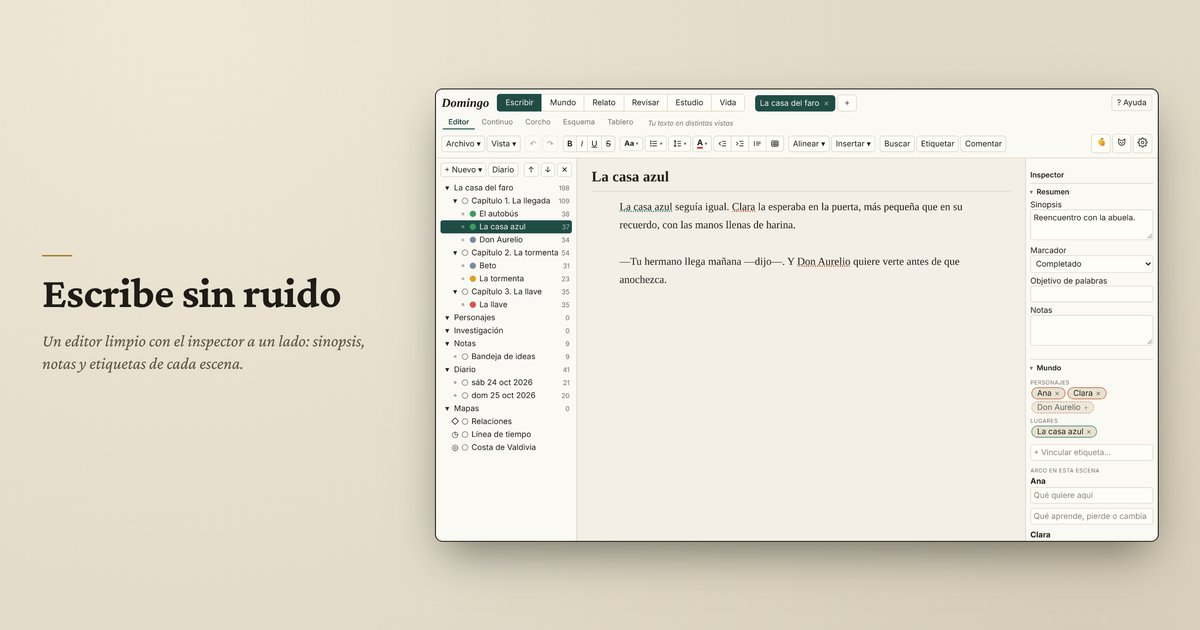
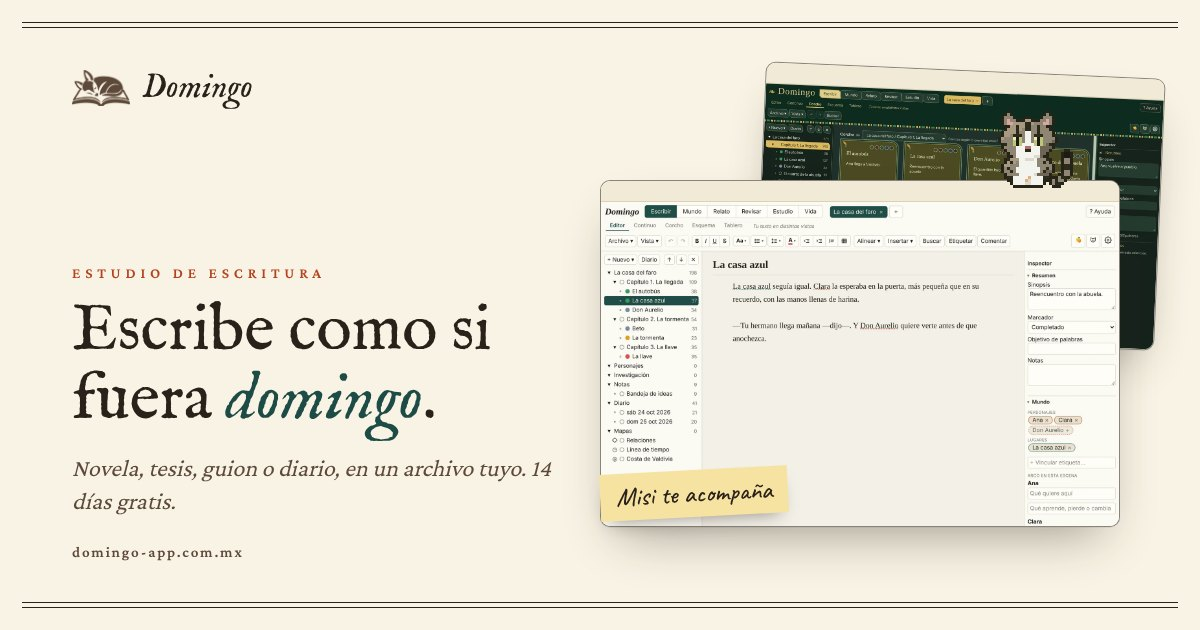
Talleres en Inicio y Funciones, preventa extendida al 30 de noviembre, imagen para compartir por pestaña, sprites completos en el índice
Claude-Session: https://claude.ai/code/session_01SU9RbtriRXr5rLhsn7hhpR

diff --git a/funciones/index.html b/funciones/index.html
@@ -17,7 +17,9 @@
 <meta property="og:title" content="Funciones · Domingo">
 <meta property="og:description" content="Escribir, Mundo, Relato, Revisar, Estudio y Vida: todas las herramientas de Domingo con capturas de la app.">
 <meta property="og:url" content="https://domingo-app.com.mx/funciones/">
-<meta property="og:image" content="https://domingo-app.com.mx/img/og.jpg">
+<meta property="og:image" content="https://domingo-app.com.mx/img/og/funciones.jpg">
+<meta property="og:image:width" content="1200">
+<meta property="og:image:height" content="630">
 <meta name="twitter:card" content="summary_large_image">
 <link rel="preconnect" href="https://fonts.googleapis.com">
 <link rel="preconnect" href="https://fonts.gstatic.com" crossorigin>
@@ -40,7 +42,7 @@
   <div class="cap"><span class="versal">Funciones</span><span class="num">Capítulo i</span></div>
   <h1>Seis estudios en un solo archivo</h1>
   <p class="entrada">Domingo reúne lo que suele estar regado en cuadernos, carpetas y programas distintos. Lo sencillo aparece primero; lo avanzado, cuando lo necesitas.</p>
-</div></section><nav class="sub" aria-label="Áreas"><div class="envoltura"><a href="#escribir">Escribir</a><a href="#mundo">Mundo</a><a href="#relato">Relato</a><a href="#revisar">Revisar</a><a href="#estudio">Estudio</a><a href="#vida">Vida</a></div></nav><section class="area" id="escribir"><div class="envoltura">
+</div></section><nav class="sub" aria-label="Áreas"><div class="envoltura"><a href="#escribir">Escribir</a><a href="#mundo">Mundo</a><a href="#relato">Relato</a><a href="#revisar">Revisar</a><a href="#estudio">Estudio</a><a href="#vida">Vida</a><a href="#talleres">Talleres</a></div></nav><section class="area" id="escribir"><div class="envoltura">
   <div class="cab"><div><span class="n">01</span><span class="versal">Escribir</span><h2 style="margin-top:var(--s2)">Un editor tranquilo, y tu obra a la vista</h2></div>
   <div><p>Escribe con formato o en Markdown. Ordena capítulos y escenas como fichas, en esquema o en tablero, y abre dos textos lado a lado cuando necesitas comparar.</p><div class="herr"><span>Editor con formato y Markdown</span><span>Corcho</span><span>Esquema</span><span>Tablero</span><span>Pantalla dividida</span><span>Máquina de escribir</span><span>Metas de palabras</span><span>Captura rápida</span><span>Talleres guiados</span></div></div></div>
   <div class="mosaico"><figure class="principal aparece"><div class="ventana "><div class="franja"><i></i><i></i><i></i></div><img src="../img/escribir.webp" width="1600" height="1000" alt="Editor. El texto al centro, la estructura a la izquierda y el inspector de la escena a la derecha." loading="lazy"></div><figcaption><b>Editor.</b> El texto al centro, la estructura a la izquierda y el inspector de la escena a la derecha.</figcaption></figure><div class="lado"><figure class="aparece"><div class="ventana "><div class="franja"><i></i><i></i><i></i></div><img src="../img/app/tablero.webp" width="1440" height="900" alt="Tablero. Escenas por estado, de pendiente a completado. Estilo Boceto." loading="lazy"></div><figcaption><b>Tablero.</b> Escenas por estado, de pendiente a completado. Estilo Boceto.</figcaption></figure><figure class="aparece"><div class="ventana "><div class="franja"><i></i><i></i><i></i></div><img src="../img/app/dividida.webp" width="1440" height="900" alt="Pantalla dividida. Dos textos lado a lado. Estilo Aurora." loading="lazy"></div><figcaption><b>Pantalla dividida.</b> Dos textos lado a lado. Estilo Aurora.</figcaption></figure></div></div>
@@ -64,9 +66,25 @@
   <div class="cab"><div><span class="n">06</span><span class="versal">Vida</span><h2 style="margin-top:var(--s2)">Lo vivido también se escribe</h2></div>
   <div><p>Un diario con fecha, ánimo y plantillas de reflexión. Una línea de vida, planes, hábitos e inspiración. Y lo que vives puede volverse historia.</p><div class="herr"><span>Diario con contraseña</span><span>Plantillas</span><span>Línea de vida</span><span>Planes</span><span>Hábito de escritura</span><span>Frases e inspiración</span><span>Revisión semanal</span></div></div></div>
   <div class="mosaico inv"><figure class="principal aparece"><div class="ventana "><div class="franja"><i></i><i></i><i></i></div><img src="../img/app/habito.webp" width="1440" height="900" alt="Hábito. Los días en que llegaste a tu meta, mes a mes y en todo el año. Estilo Japandi." loading="lazy"></div><figcaption><b>Hábito.</b> Los días en que llegaste a tu meta, mes a mes y en todo el año. Estilo Japandi.</figcaption></figure><div class="lado"><figure class="aparece"><div class="ventana "><div class="franja"><i></i><i></i><i></i></div><img src="../img/app/linea-vida.webp" width="1440" height="900" alt="Línea de vida. Hitos, planes y metas junto a tu diario. Estilo Acanthus." loading="lazy"></div><figcaption><b>Línea de vida.</b> Hitos, planes y metas junto a tu diario. Estilo Acanthus.</figcaption></figure><figure class="aparece"><div class="ventana "><div class="franja"><i></i><i></i><i></i></div><img src="../img/app/semana.webp" width="1440" height="900" alt="Revisión semanal. Lo que escribiste, tu ánimo y lo que sigue." loading="lazy"></div><figcaption><b>Revisión semanal.</b> Lo que escribiste, tu ánimo y lo que sigue.</figcaption></figure></div></div>
-</div></section><section class="banda"><div class="envoltura centro cabeza" style="margin-bottom:0">
-  <span class="versal">¿Por dónde empiezo?</span><h2>Aprende haciendo</h2><hr class="filete">
-  <p>Domingo trae obras de muestra con todo ya usado, como Don Quijote y La vida es sueño, y talleres guiados paso a paso. Pruébalas sin riesgo para tus manuscritos.</p>
+</div></section><section class="talleres" id="talleres"><div class="envoltura">
+  <div class="cab area" style="padding:0;border:0;background:none"><div class="cab" style="margin-bottom:var(--s5)"><div><span class="n" style="color:rgba(248,243,228,.25)">07</span><span class="versal">Talleres</span><h2 style="margin-top:var(--s2)">Tu primer cuento, en cinco sesiones</h2></div>
+  <div><p>Si vas empezando, no tienes que adivinar por dónde. El Taller de escritura crea un manuscrito tuyo y te lleva de la mano, de una vivencia propia al cuento terminado. No enseña a usar la app: te enseña a escribir, y la app aparece cuando la necesitas.</p></div></div></div>
+  <div class="taller-dos">
+    <div><ol class="sesiones"><li><div><b>Una idea que sale de tu vida</b><span>Anotas algo que viviste, lo conviertes en una pregunta «¿Y si…?» y armas el esqueleto de tu cuento.</span></div></li><li><div><b>Tus personajes y su mundo</b><span>Das vida a tu protagonista, a quien lo inspiró y al lugar donde pasa todo.</span></div></li><li><div><b>Investiga e inspírate</b><span>Reúnes imágenes, frases y datos que alimentan tu historia, y ubicas lo importante en el tiempo.</span></div></li><li><div><b>Escribe tu historia</b><span>Escribes las escenas una a una, sin corregir, con el material que ya reuniste.</span></div></li><li><div><b>Revisa y termina</b><span>Lees tu cuento completo, corriges lo que Domingo señala, guardas una versión y lo exportas.</span></div></li></ol><p class="chico" style="color:#cfd8cc;margin-top:var(--s3)">Cada sesión dura unos 15 minutos. Puedes cerrar el taller cuando quieras y retomarlo desde «Continuar», en el paso donde lo dejaste.</p></div>
+    <div class="figs">
+      <figure class="aparece"><div class="ventana "><div class="franja"><i></i><i></i><i></i></div><img src="../img/app/taller-paso.webp" width="1440" height="900" alt="Taller de escritura, sesión 1, paso 4: la tarjeta guía y la sinopsis con el «¿Y si…?» de la historia." loading="lazy"></div><figcaption><b>Cambia algo y pregunta «¿Y si…?».</b> Una vivencia real se vuelve idea de cuento.</figcaption></figure>
+      <figure class="aparece"><div class="ventana "><div class="franja"><i></i><i></i><i></i></div><img src="../img/app/taller-menu.webp" width="1440" height="900" alt="Menú del Taller de Domingo con sus tres grupos: Aprender Domingo, Taller avanzado y Taller de escritura." loading="lazy"></div><figcaption><b>El menú del taller.</b> Se abre desde Ayuda, con «Hacer el taller guiado».</figcaption></figure>
+    </div>
+  </div>
+  <div class="tres-t">
+    <div><span class="n">8</span><h3>Aprender Domingo</h3><p>Partes cortas de unos 5 minutos: las zonas de la pantalla, tu primer escrito, mapas, relato, revisión, estudio y vida.</p></div>
+    <div><span class="n">7</span><h3>Taller avanzado</h3><p>Una herramienta compleja de principio a fin: mapas, ramas y tramas, lenguas inventadas, escritura académica, arcos y genealogía.</p></div>
+    <div><span class="n">5</span><h3>Taller de escritura</h3><p>Cinco sesiones para escribir tu propia historia corta. Tu manuscrito se conserva al terminar.</p></div>
+  </div>
+</div></section>
+<section class="banda"><div class="envoltura centro cabeza" style="margin-bottom:0">
+  <span class="versal">Obras de muestra</span><h2>Aprende con los clásicos</h2><hr class="filete">
+  <p>Domingo trae obras de muestra con todas las herramientas ya usadas, como Don Quijote y La vida es sueño. Ábrelas para explorar sin riesgo para tus manuscritos.</p>
   <div class="acciones" style="justify-content:center"><a class="boton primario solo-prueba" href="../precio/#descargas">Descargar gratis · 14 días</a><a class="boton secundario" href="../estilos/">Ver los estilos</a></div>
 </div><div class="envoltura" style="max-width:928px;margin-top:var(--s6)"><figure class="aparece"><div class="ventana "><div class="franja"><i></i><i></i><i></i></div><img src="../img/quijote.webp" width="1600" height="956" alt="Don Quijote abierto en Domingo con el estilo Bohemio, una de las obras de muestra." loading="lazy"></div><figcaption><b>Don Quijote</b>, una de las obras de muestra, en estilo Bohemio.</figcaption></figure></div></section>
 </main>

diff --git a/preguntas/index.html b/preguntas/index.html
@@ -17,7 +17,9 @@
 <meta property="og:title" content="Preguntas · Domingo">
 <meta property="og:description" content="Preguntas frecuentes sobre Domingo: prueba de 14 días, licencia, privacidad, instalación en Mac y Windows, y contacto.">
 <meta property="og:url" content="https://domingo-app.com.mx/preguntas/">
-<meta property="og:image" content="https://domingo-app.com.mx/img/og.jpg">
+<meta property="og:image" content="https://domingo-app.com.mx/img/og/preguntas.jpg">
+<meta property="og:image:width" content="1200">
+<meta property="og:image:height" content="630">
 <meta name="twitter:card" content="summary_large_image">
 <link rel="preconnect" href="https://fonts.googleapis.com">
 <link rel="preconnect" href="https://fonts.gstatic.com" crossorigin>
@@ -40,7 +42,7 @@
   <div class="cap"><span class="versal">Preguntas</span><span class="num">Capítulo vi</span></div>
   <h1>Lo que suelen preguntar</h1>
   <p class="entrada">Y si tu duda no está aquí, escríbeme. Respondo yo, no un sistema.</p>
-</div></section><section class="banda" style="padding-top:0"><div class="envoltura"><div class="grupo-p"><h2>Empezar</h2><div class="preguntas"><details class='solo-prueba'><summary>¿Puedo probar Domingo antes de comprarlo?</summary><p>Sí. Descarga la app y úsala 14 días con todas las herramientas, sin cuenta ni tarjeta. La prueba empieza sola la primera vez que abres Domingo.</p></details><details class='solo-prueba'><summary>¿Qué pasa cuando terminan los 14 días?</summary><p>Tus manuscritos siguen ahí: puedes abrirlos, leerlos y exportarlos cuando quieras. Para volver a escribir, compra tu licencia y pega la clave en la app. Todo lo que escribiste durante la prueba se queda contigo.</p></details><details><summary>¿Qué es Domingo Lite?</summary><p>Una versión gratuita de Domingo que se usa en el navegador, sin instalar nada. Tiene el editor, el corcho, el mapa de relaciones, Misi y los mangos, con un tope de 5,000 palabras. Lo que escribas lo guardas como archivo .mingo y lo abres después en la app completa. <a href="../probar/">Abrir Domingo Lite</a>.</p></details><details><summary>¿Hay versión para Linux, iPad o teléfono?</summary><p>Por ahora Domingo es para macOS y Windows. Si te interesa otra plataforma, escríbeme: eso ayuda a decidir qué sigue.</p></details></div></div><div class="grupo-p"><h2>Tus textos</h2><div class="preguntas"><details><summary>¿Necesito internet para usar Domingo?</summary><p>No. Domingo funciona sin conexión. Solo necesitas internet para descargarla y activar tu licencia.</p></details><details><summary>¿Dónde se guardan mis textos?</summary><p>En tu computadora, en archivos .mingo que tú eliges dónde guardar. No hay nube ni cuenta. Domingo hace copias de seguridad automáticas al guardar y puedes recuperarlas por fecha.</p></details></div></div><div class="grupo-p"><h2>Licencia y pago</h2><div class="preguntas"><details><summary>¿Es una suscripción?</summary><p>No. Pagas una vez y la licencia es tuya, sin fecha de caducidad.</p></details><details><summary>¿En cuántos equipos puedo usarla?</summary><p>Tu licencia sirve para dos equipos, por ejemplo tu computadora de escritorio y tu laptop, aunque uno sea Mac y otro Windows. Para cambiar de computadora, en la anterior ve a Configuración › Licencia › Liberar este dispositivo.</p></details><details><summary>¿Cómo funcionó la preventa?</summary><p><span id="faq-preventa"></span></p></details><details><summary>¿Y si no me gusta?</summary><p>Tienes 14 días para pedir tu reembolso, sin preguntas. Escribe a contacto@domingo-app.com.mx.</p></details></div></div><div class="grupo-p"><h2>Instalación</h2><div class="preguntas"><details><summary>Mi Mac dice que no puede comprobar la app. ¿Qué hago?</summary><p>Domingo todavía no tiene firma de Apple, así que la primera vez macOS la detiene. Abre Ajustes del Sistema, entra a Privacidad y seguridad, baja hasta la sección Seguridad y pulsa «Abrir igualmente». Solo hay que hacerlo una vez. Los pasos con imágenes están en la <a href="../instalar/#instala">guía de instalación</a>.</p></details><details><summary>Windows muestra un aviso azul al instalar. ¿Es normal?</summary><p>Sí. Es el filtro SmartScreen, que aparece con programas nuevos que aún no tienen firma. Pulsa «Más información» y después «Ejecutar de todas formas». Los pasos con imágenes están en la <a href="../instalar/#instala">guía de instalación</a>.</p></details></div></div></div></section><section class="banda verde" id="contacto"><div class="envoltura contacto">
+</div></section><section class="banda" style="padding-top:0"><div class="envoltura"><div class="grupo-p"><h2>Empezar</h2><div class="preguntas"><details class='solo-prueba'><summary>¿Puedo probar Domingo antes de comprarlo?</summary><p>Sí. Descarga la app y úsala 14 días con todas las herramientas, sin cuenta ni tarjeta. La prueba empieza sola la primera vez que abres Domingo.</p></details><details class='solo-prueba'><summary>¿Qué pasa cuando terminan los 14 días?</summary><p>Tus manuscritos siguen ahí: puedes abrirlos, leerlos y exportarlos cuando quieras. Para volver a escribir, compra tu licencia y pega la clave en la app. Todo lo que escribiste durante la prueba se queda contigo.</p></details><details><summary>¿Qué es Domingo Lite?</summary><p>Una versión gratuita de Domingo que se usa en el navegador, sin instalar nada. Tiene el editor, el corcho, el mapa de relaciones, Misi y los mangos, con un tope de 5,000 palabras. Lo que escribas lo guardas como archivo .mingo y lo abres después en la app completa. <a href="../probar/">Abrir Domingo Lite</a>.</p></details><details><summary>¿Hay versión para Linux, iPad o teléfono?</summary><p>Por ahora Domingo es para macOS y Windows. Si te interesa otra plataforma, escríbeme: eso ayuda a decidir qué sigue.</p></details></div></div><div class="grupo-p"><h2>Tus textos</h2><div class="preguntas"><details><summary>¿Necesito internet para usar Domingo?</summary><p>No. Domingo funciona sin conexión. Solo necesitas internet para descargarla y activar tu licencia.</p></details><details><summary>¿Dónde se guardan mis textos?</summary><p>En tu computadora, en archivos .mingo que tú eliges dónde guardar. No hay nube ni cuenta. Domingo hace copias de seguridad automáticas al guardar y puedes recuperarlas por fecha.</p></details></div></div><div class="grupo-p"><h2>Licencia y pago</h2><div class="preguntas"><details><summary>¿Es una suscripción?</summary><p>No. Pagas una vez y la licencia es tuya, sin fecha de caducidad.</p></details><details><summary>¿En cuántos equipos puedo usarla?</summary><p>Tu licencia sirve para dos equipos, por ejemplo tu computadora de escritorio y tu laptop, aunque uno sea Mac y otro Windows. Para cambiar de computadora, en la anterior ve a Configuración › Licencia › Liberar este dispositivo.</p></details><details><summary>¿Cómo funciona la preventa?</summary><p><span id="faq-preventa"></span></p></details><details><summary>¿Y si no me gusta?</summary><p>Tienes 14 días para pedir tu reembolso, sin preguntas. Escribe a contacto@domingo-app.com.mx.</p></details></div></div><div class="grupo-p"><h2>Instalación</h2><div class="preguntas"><details><summary>Mi Mac dice que no puede comprobar la app. ¿Qué hago?</summary><p>Domingo todavía no tiene firma de Apple, así que la primera vez macOS la detiene. Abre Ajustes del Sistema, entra a Privacidad y seguridad, baja hasta la sección Seguridad y pulsa «Abrir igualmente». Solo hay que hacerlo una vez. Los pasos con imágenes están en la <a href="../instalar/#instala">guía de instalación</a>.</p></details><details><summary>Windows muestra un aviso azul al instalar. ¿Es normal?</summary><p>Sí. Es el filtro SmartScreen, que aparece con programas nuevos que aún no tienen firma. Pulsa «Más información» y después «Ejecutar de todas formas». Los pasos con imágenes están en la <a href="../instalar/#instala">guía de instalación</a>.</p></details></div></div></div></section><section class="banda verde" id="contacto"><div class="envoltura contacto">
   <div><span class="versal">Contacto</span><h2 style="margin-top:var(--s2)">¿Dudas, ideas o un error que encontraste? Escríbeme.</h2>
     <div class="enlaces"><a class="boton claro" href="mailto:contacto@domingo-app.com.mx">Escribir un correo</a>
     <a class="boton secundario" style="color:var(--crema);border-color:var(--crema)" href="https://www.instagram.com/domingo.app/" target="_blank" rel="noopener">@domingo.app</a></div>

diff --git a/js/sitio.js b/js/sitio.js
@@ -3,7 +3,7 @@
    ============================================================ */
 const CONFIG = {
   // Enlaces de compra de Polar. El pago se abre sobre el sitio, con tema claro.
-  // Preventa (ya incluye el código MANGO) hasta el 22 de noviembre a las 23:59; venta desde el 23.
+  // Preventa (ya incluye el código MANGO), extendida hasta el 30 de noviembre a las 23:59; venta desde el 1 de diciembre.
   checkoutPreventa: "https://buy.polar.sh/polar_cl_9hj7qkpe0u4ZlLj2QggbKz6zzjJ4KeN9v4ZDq0RdbRq",
   checkoutVenta:    "https://buy.polar.sh/polar_cl_whcDHK2vUrVFwJDrdAdMXPNLgvHJ8XazWONUk0xSvaQ",
   // Enlaces directos a los instaladores. Si están vacíos, los botones quedan desactivados.
@@ -12,7 +12,7 @@ const CONFIG = {
   // Fechas en hora de Monterrey (UTC-6)
   preventa:    "2026-11-15T00:00:00-06:00",
   lanzamiento: "2026-11-22T00:00:00-06:00",
-  finPreventa: "2026-11-23T00:00:00-06:00",
+  finPreventa: "2026-12-01T00:00:00-06:00",   // fin de la preventa extendida
   descargas:   "2026-11-18T00:00:00-06:00",
   codigo: "MANGO",
   precio: 499,
@@ -59,7 +59,10 @@ const CONFIG = {
       texto = "Comprar en preventa";
     } else {
       etq = "Ya disponible"; tit = "Domingo ya está aquí";
-      nota = pv ? "Hoy es el último día de preventa: $" + CONFIG.precioPreventa + " MXN para las primeras 10 personas, hasta las 23:59."
+      const ultimo = location.hash === "#prueba-ultimo-dia" || (T(CONFIG.finPreventa) - Date.now() <= 864e5);
+      nota = pv ? (ultimo
+                  ? "Hoy es el último día de preventa: $" + CONFIG.precioPreventa + " MXN hasta las 23:59."
+                  : "Preventa extendida hasta el 30 de noviembre: $" + CONFIG.precioPreventa + " MXN con el código <b>" + CONFIG.codigo + "</b>, ya incluido al pagar.")
                 : "$" + CONFIG.precio + " MXN, pago único. Licencia para 2 equipos.";
       texto = pv ? "Comprar en preventa" : "Comprar Domingo";
     }
@@ -72,15 +75,15 @@ const CONFIG = {
     pon("#precio-antes", e => e.hidden = !pv);
     pon("#precio-num", e => e.textContent = pv ? CONFIG.precioPreventa : CONFIG.precio);
     pon("#precio-texto", e => e.textContent = pv
-      ? "Precio de preventa con el código " + CONFIG.codigo + ", ya incluido, solo para las primeras 10 personas."
+      ? "Precio de preventa con el código " + CONFIG.codigo + ", ya incluido, para las primeras 10 personas hasta el 30 de noviembre."
       : "Pago único, licencia de por vida.");
     const terminada = f !== "antes" && !pv;
-    pon("#preventa-titulo", e => e.textContent = terminada ? "Terminó el 22 de noviembre" : "Del 15 al 22 de noviembre");
+    pon("#preventa-titulo", e => e.textContent = terminada ? "Terminó el 30 de noviembre" : "Extendida hasta el 30 de noviembre");
     pon("#preventa-texto", e => e.innerHTML = terminada
       ? "Gracias a quienes compraron en preventa. Ahora Domingo cuesta <b>$" + CONFIG.precio + " MXN</b>, pago único."
-      : "Las primeras 10 personas que compren durante la preventa pagan <b>$" + CONFIG.precioPreventa + " MXN</b>. El código ya va incluido en el botón de compra.");
+      : "Alargamos la preventa una semana más. Hasta el domingo 30 de noviembre a las 23:59, las primeras 10 personas pagan <b>$" + CONFIG.precioPreventa + " MXN</b> en lugar de $" + CONFIG.precio + ". El código ya va incluido en el botón de compra.");
     pon("#preventa-codigo", e => e.hidden = terminada);
-    pon("#faq-preventa", e => e.textContent = "Del domingo 15 al domingo 22 de noviembre a las 23:59, las primeras 10 personas que compraron obtuvieron Domingo por $" + CONFIG.precioPreventa + " MXN con el código " + CONFIG.codigo + ". Después el precio es $" + CONFIG.precio + " MXN.");
+    pon("#faq-preventa", e => e.textContent = "La preventa empezó el domingo 15 de noviembre y se extendió hasta el domingo 30 de noviembre a las 23:59. Mientras dure, las primeras 10 personas pagan $" + CONFIG.precioPreventa + " MXN con el código " + CONFIG.codigo + ", que ya va incluido en el botón de compra. Desde el 1 de diciembre el precio es $" + CONFIG.precio + " MXN.");
 
     /* Botones de compra: Polar abre el pago sobre la página. Si su script no carga, son enlaces normales. */
     $$("[data-cta]").forEach(a => {

diff --git a/css/sitio.css b/css/sitio.css
@@ -162,6 +162,7 @@ figcaption b{color:var(--tinta);font-weight:600}
 .indice a:hover{transform:translateY(-3px);box-shadow:var(--sombra);color:inherit}
 .indice .img{aspect-ratio:16/10;overflow:hidden;border-bottom:1px solid var(--linea);background:var(--hueso)}
 .indice .img img{width:100%;height:100%;object-fit:cover;object-position:top left}
+.indice .img.pix img{width:auto;height:auto;object-fit:contain;flex:none}
 .indice .img.pix{display:flex;align-items:flex-end;justify-content:center;gap:12px;padding-bottom:18%;background:linear-gradient(#efe4c6,#e2d3ab)}
 .indice .txt{padding:var(--s3)}
 .indice .txt span{font:italic 400 15px/1 var(--titulo);color:var(--terra)}
@@ -194,6 +195,27 @@ figcaption b{color:var(--tinta);font-weight:600}
 .mosaico.inv{grid-template-columns:4fr 8fr}
 .mosaico.inv .principal{order:2}
 .mosaico.tres{grid-template-columns:repeat(3,1fr)}
+
+/* Talleres */
+.talleres{padding:var(--s7) 0;background:var(--verde);color:var(--crema)}
+.talleres h2,.talleres h3{color:var(--crema)}
+.talleres .versal{color:var(--amarillo)}
+.talleres .filete{border-color:var(--crema)}
+.talleres .cab p{color:#d6ddd1}
+.sesiones{list-style:none;margin:var(--s4) 0 0;padding:0;counter-reset:s}
+.sesiones li{counter-increment:s;display:grid;grid-template-columns:56px 1fr;gap:var(--s2);padding:var(--s2) 0;border-top:1px solid rgba(248,243,228,.2)}
+.sesiones li::before{content:counter(s,upper-roman);font:italic 400 28px/1 var(--titulo);color:var(--amarillo);padding-top:2px}
+.sesiones b{display:block;font:400 22px/1.2 var(--titulo);color:var(--crema)}
+.sesiones span{font-size:16px;color:#cfd8cc}
+.talleres figcaption{color:#cfd8cc}.talleres figcaption b{color:var(--crema)}
+.tres-t{display:grid;grid-template-columns:repeat(3,1fr);gap:var(--s4);margin-top:var(--s6)}
+.tres-t div{border:1px solid rgba(248,243,228,.22);border-radius:var(--r);padding:var(--s3)}
+.tres-t .n{font:400 44px/1 var(--titulo);color:var(--amarillo)}
+.tres-t h3{margin:var(--s1) 0}
+.tres-t p{font-size:16px;color:#cfd8cc;margin:0}
+.taller-dos{display:grid;grid-template-columns:5fr 7fr;gap:var(--s6);align-items:start}
+.taller-dos .figs{display:grid;gap:var(--s4)}
+@media (max-width:960px){.taller-dos{grid-template-columns:1fr}.tres-t{grid-template-columns:1fr}}
 
 /* ========== ESTILOS ========== */
 .visor{display:grid;grid-template-columns:8fr 4fr;gap:var(--s5);align-items:start}

diff --git a/index.html b/index.html
@@ -17,7 +17,9 @@
 <meta property="og:title" content="Domingo · Escribe como si fuera domingo">
 <meta property="og:description" content="Domingo es un estudio de escritura para macOS y Windows. Novela, cuento, tesis, guion y diario en un solo archivo tuyo, sin conexión y sin suscripción.">
 <meta property="og:url" content="https://domingo-app.com.mx/">
-<meta property="og:image" content="https://domingo-app.com.mx/img/og.jpg">
+<meta property="og:image" content="https://domingo-app.com.mx/img/og/inicio.jpg">
+<meta property="og:image:width" content="1200">
+<meta property="og:image:height" content="630">
 <meta name="twitter:card" content="summary_large_image">
 <link rel="preconnect" href="https://fonts.googleapis.com">
 <link rel="preconnect" href="https://fonts.gstatic.com" crossorigin>
@@ -113,6 +115,16 @@
         <figure class="aparece"><div class="ventana "><div class="franja"><i></i><i></i><i></i></div><img src="img/app/diario.webp" width="1440" height="900" alt="Entrada de diario en estilo Imprenta sepia." loading="lazy"></div><figcaption><b>Diario.</b> Privado y con contraseña si quieres.</figcaption></figure>
       </div>
     </div>
+  </div>
+</section>
+
+<section class="banda papel">
+  <div class="envoltura duo">
+    <div><span class="versal">¿Empiezas a escribir?</span><h2 style="margin-top:var(--s2)">Tu primer cuento, en cinco sesiones</h2><hr class="filete">
+      <p>El Taller de escritura te acompaña paso a paso, desde una idea que sale de tu vida hasta el cuento terminado y exportado. Cada sesión dura unos 15 minutos y todo queda en tu propio manuscrito.</p>
+      <p class="chico">Aprendes Domingo mientras escribes: el taller te señala cada botón cuando lo necesitas.</p>
+      <div class="acciones"><a class="boton primario" href="funciones/#talleres">Ver el taller</a></div></div>
+    <figure class="aparece"><div class="ventana "><div class="franja"><i></i><i></i><i></i></div><img src="img/app/taller-paso.webp" width="1440" height="900" alt="Taller de escritura, sesión 1: una tarjeta guía pide escribir el «¿Y si…?» de la historia en la sinopsis." loading="lazy"></div><figcaption><b>Sesión 1, paso 4.</b> La tarjeta te dice qué hacer y señala dónde.</figcaption></figure>
   </div>
 </section>
 

diff --git a/precio/index.html b/precio/index.html
@@ -17,7 +17,9 @@
 <meta property="og:title" content="Precio y descargas · Domingo">
 <meta property="og:description" content="Domingo cuesta $499 MXN, pago único, con 14 días de prueba gratis. Descarga para macOS y Windows o usa Domingo Lite en tu navegador.">
 <meta property="og:url" content="https://domingo-app.com.mx/precio/">
-<meta property="og:image" content="https://domingo-app.com.mx/img/og.jpg">
+<meta property="og:image" content="https://domingo-app.com.mx/img/og/precio.jpg">
+<meta property="og:image:width" content="1200">
+<meta property="og:image:height" content="630">
 <meta name="twitter:card" content="summary_large_image">
 <link rel="preconnect" href="https://fonts.googleapis.com">
 <link rel="preconnect" href="https://fonts.gstatic.com" crossorigin>
@@ -55,7 +57,7 @@
     </div>
     <div class="der">
       <span class="versal">Preventa</span>
-      <h3 style="font-size:32px;margin:var(--s2) 0" id="preventa-titulo">Del 15 al 22 de noviembre</h3>
+      <h3 style="font-size:32px;margin:var(--s2) 0" id="preventa-titulo">Extendida hasta el 30 de noviembre</h3>
       <p id="preventa-texto"></p>
       <div id="preventa-codigo"><button class="codigo" id="codigo" type="button" title="Copiar código">MANGO</button>
         <p class="chico">No tienes que escribirlo: se aplica solo al pagar.</p>

diff --git a/companeros/index.html b/companeros/index.html
@@ -17,7 +17,9 @@
 <meta property="og:title" content="Compañeros · Domingo">
 <meta property="og:description" content="Misi, el gato de píxeles de Domingo: sus nueve apodos, su menú, accesorios y pelajes. Y Domingo y Yoshi, los compañeros secretos.">
 <meta property="og:url" content="https://domingo-app.com.mx/companeros/">
-<meta property="og:image" content="https://domingo-app.com.mx/img/og.jpg">
+<meta property="og:image" content="https://domingo-app.com.mx/img/og/companeros.jpg">
+<meta property="og:image:width" content="1200">
+<meta property="og:image:height" content="630">
 <meta name="twitter:card" content="summary_large_image">
 <link rel="preconnect" href="https://fonts.googleapis.com">
 <link rel="preconnect" href="https://fonts.gstatic.com" crossorigin>

diff --git a/historia/index.html b/historia/index.html
@@ -17,7 +17,9 @@
 <meta property="og:title" content="Historia · Domingo">
 <meta property="og:description" content="Por qué la app se llama Domingo, quién la hace y cómo participar en la convocatoria para escritores.">
 <meta property="og:url" content="https://domingo-app.com.mx/historia/">
-<meta property="og:image" content="https://domingo-app.com.mx/img/og.jpg">
+<meta property="og:image" content="https://domingo-app.com.mx/img/og/historia.jpg">
+<meta property="og:image:width" content="1200">
+<meta property="og:image:height" content="630">
 <meta name="twitter:card" content="summary_large_image">
 <link rel="preconnect" href="https://fonts.googleapis.com">
 <link rel="preconnect" href="https://fonts.gstatic.com" crossorigin>

diff --git a/estilos/index.html b/estilos/index.html
@@ -17,7 +17,9 @@
 <meta property="og:title" content="Estilos · Domingo">
 <meta property="og:description" content="Los diez estilos de Domingo en tono claro, sepia y oscuro: editor, corcho y mapa de relaciones.">
 <meta property="og:url" content="https://domingo-app.com.mx/estilos/">
-<meta property="og:image" content="https://domingo-app.com.mx/img/og.jpg">
+<meta property="og:image" content="https://domingo-app.com.mx/img/og/estilos.jpg">
+<meta property="og:image:width" content="1200">
+<meta property="og:image:height" content="630">
 <meta name="twitter:card" content="summary_large_image">
 <link rel="preconnect" href="https://fonts.googleapis.com">
 <link rel="preconnect" href="https://fonts.gstatic.com" crossorigin>
